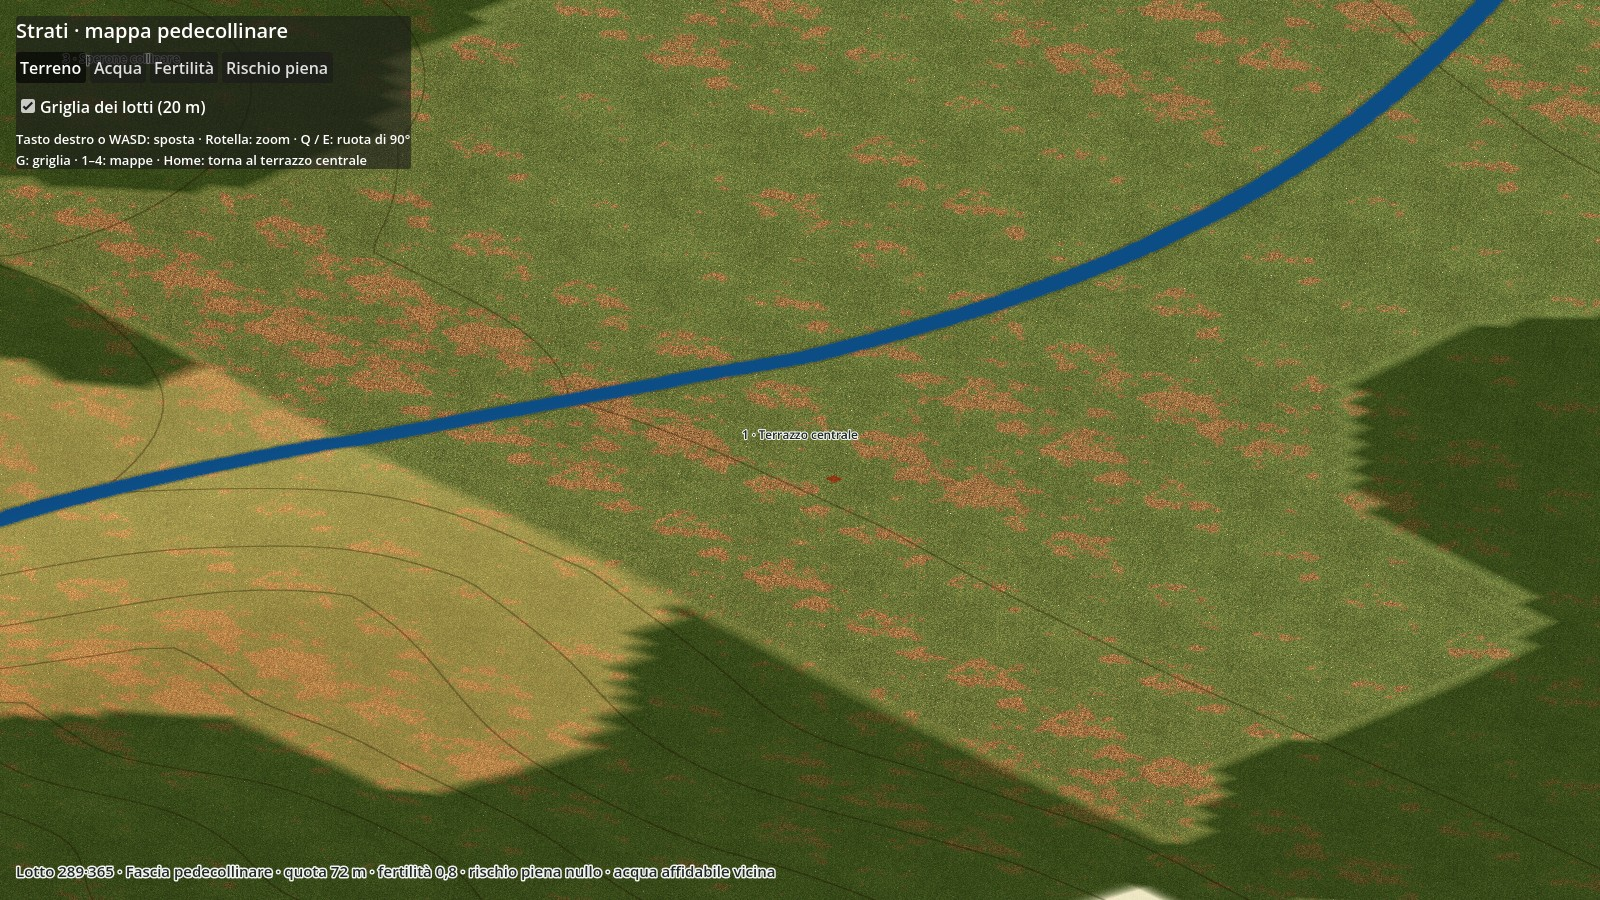
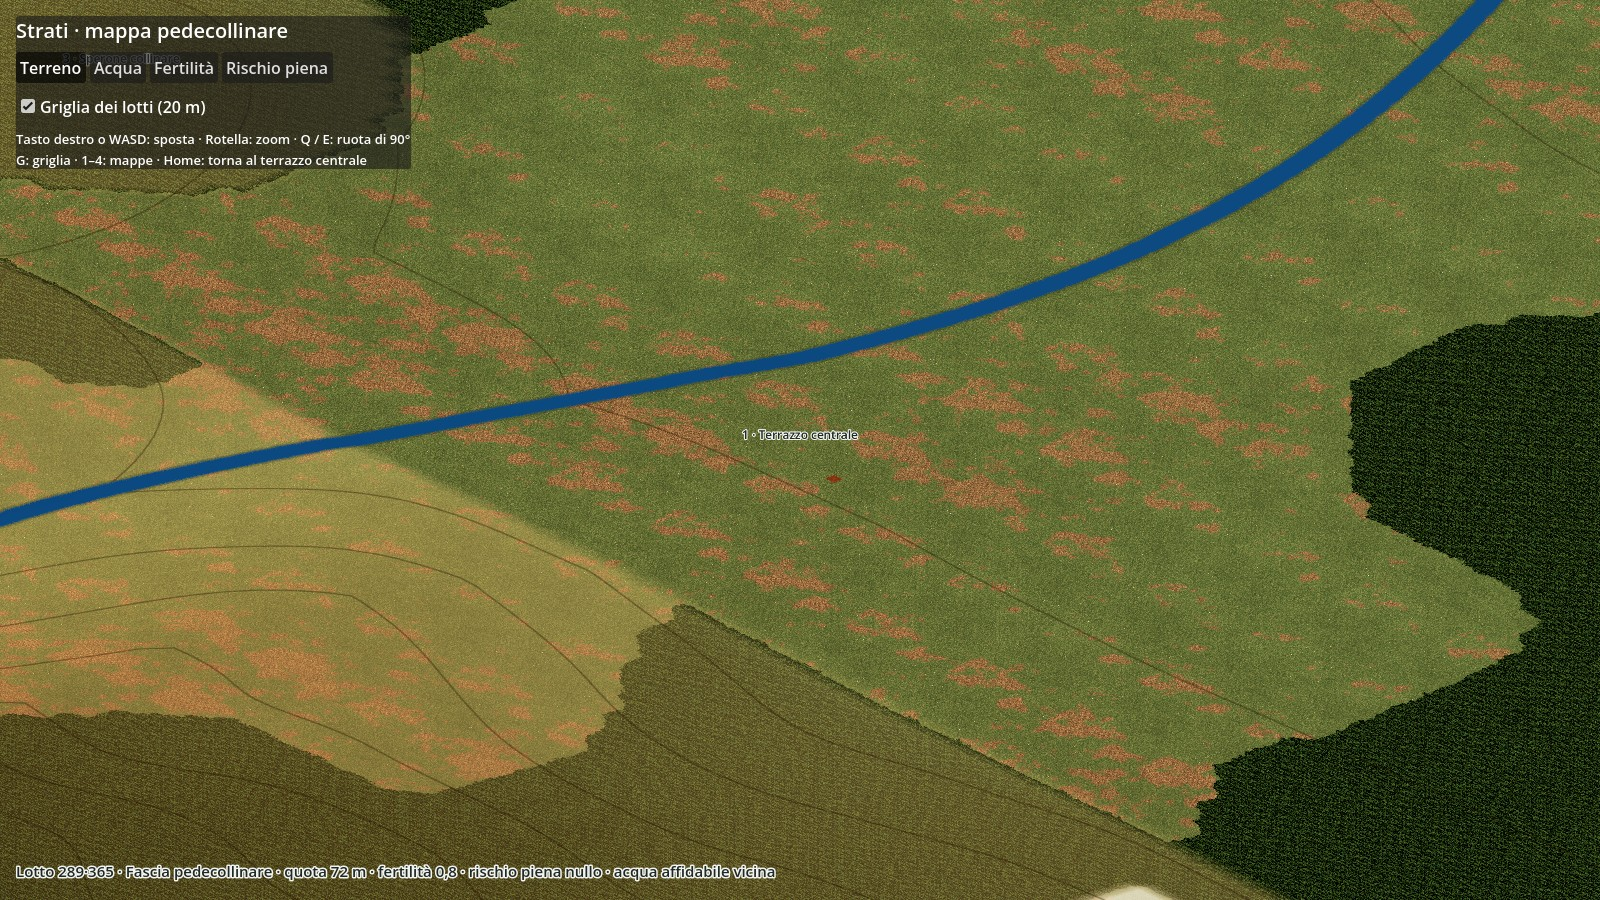
Terreno: boschi disegnati dallo shader con bordi irregolari e volta di chiome, terra sui pendii ripidi, foto del margine di bosco
Claude-Session: https://claude.ai/code/session_01N4eDGmuEoEcJQdC5u5KEMd

Changed region(s): [[0.0, 0.3422, 1.0, 1.0], [0.0, 0.0, 0.3125, 0.2178], [0.0, 0.28, 0.125, 0.4356]]

diff --git a/docs/asset.md b/docs/asset.md
@@ -37,6 +37,7 @@
 - **Cinque specie:** quercia (larga, verde oliva), carpino (tondo, verde freddo), pioppo (colonnare, verde chiaro), acero in autunno (giallo e arancio), arbusto di nocciolo (senza tronco, con fusti dal suolo). L'acero autunnale serve a provare la varietà di colore: le stagioni nel gioco non sono ancora decise.
 - **Prato:** texture fatta di migliaia di fili sottili invece che di macchie; una seconda lettura ruotata della stessa texture e tre maschere a scale diverse (circa 70 m, 230 m, 1,4 km) spezzano la ripetizione; chiazze di erba secca rossiccia, più frequenti dove la zona è già asciutta.
 - **Ombre (corrette dopo la segnalazione di Fede, 23/11/2026):** mancavano per due motivi. (1) Il sole stava alle spalle della camera: ogni ombra cadeva dietro l'oggetto che la proiettava e restava nascosta, e tutto era illuminato di fronte, quindi piatto. Ora il sole gira con la camera. **Decisione di Fede (23/11/2026): sole da sinistra, ombre lunghe verso destra sullo schermo**, a ogni rotazione (altezza 42°, 270° rispetto alla direzione dello sguardo: costanti `ALTEZZA_SOLE` e `AZIMUT_SOLE` in `principale.gd`). È una scelta di leggibilità: in un mondo realistico il sole non seguirebbe la camera. (2) La camera stava a 20 km dal punto guardato e le ombre del sole, che coprono lo spazio dalla camera alla distanza massima, sfumavano fino a sparire. Ora la distanza della camera segue lo zoom e la mappa d'ombra copre solo la fetta di terreno visibile: ombre nitide anche a 35 m. Sole un po' caldo, luce del cielo un po' fredda, così le ombre non vengono nere.
+- **Terreno (stessa sessione):** i boschi non stanno più nei colori dei vertici, che davano bordi a gradini da 40 m. Li disegna lo shader dalla copertura della mappa, con bordi irregolari e una volta di chiome fatta di due texture di foglie a strati, con macchie di luce e d'ombra grandi come alberi. Segnaposto finché non ci saranno alberi veri posati sulla mappa. Sui pendii ripidi l'erba si dirada e affiora la terra. Immagine del margine di un bosco: `docs/immagini/terreno-margine-bosco.jpg` (con `test/foto_bosco.gd`).
 - Immagini: `docs/immagini/prova-stile-v3-vicino.jpg` (vista di 35 m), `-medio.jpg` (70 m), `-territorio.jpg` (1500 m), `-foglie.jpg` (le quattro texture delle foglie).
 
 ## Regole tecniche
@@ -76,5 +77,5 @@ Gli alberi sono della terza versione; le facce delle chiome contano fronte e ret
 - **Da verificare nella terza versione:** ombre e prestazioni sui PC di Fede; carte viste di taglio che a volte si vedono come strisce ai bordi delle chiome; la casa lunga e le capanne viste a 35 m (le texture di paglia e argilla sono nate per viste più lontane).
 - **Alberi in quantità:** per i boschi servirà una versione più leggera (meno carte) da usare da lontano, e la posa di molti alberi con istanze multiple (`MultiMeshInstance3D`).
 - **Villaggio:** completare il lotto nello stile scelto (case lunghe piccola e grande, palizzata e varco, luogo sacro, canneto, rocce, arbusti, fosse-silos, focolare, recinto per animali) e varianti per evitare ripetizioni.
-- **Terreno:** texture distinte per campo coltivato, bosco, palude, roccia; alberi veri al posto delle macchie scure dei boschi, che da vicino mostrano ancora i gradini della griglia da 40 m.
+- **Terreno:** texture distinte per campo coltivato, bosco, palude, roccia; alberi veri al posto della volta di chiome dipinta sul terreno, che da circa 150 m mostra ancora una trama ripetuta.
 - **Abitato protourbano:** terrapieno e fossato modulari, villaggio arginato ispirato alle terramare dell'età del Bronzo, tipiche della pianura emiliana.

diff --git a/docs/diario.md b/docs/diario.md
@@ -13,6 +13,7 @@ Voci più recenti in cima.
 - Primo lotto di asset in stile "plastico architettonico" (11 modelli): **scartato da Fede**, che vuole uno stile verosimile anche nei colori e alberi meno poligonali. Rimossi dal repository (restano nella cronologia di Git).
 - **Prova di stile verosimile** (`gioco/asset/prove_stile/`, 5 modelli: casa lunga, capanna tonda, granaio, due querce): texture procedurali generate da script (paglia, argilla, legno, corteccia, pietra, erba, foglie), tetti spessi e irregolari, pali a vista, querce con rami e chioma di foglie. Il terreno del gioco ora usa una texture d'erba tinta dalla zona. Seconda versione ispirata ad Age of Empires IV: texture più "dipinte", tetti più alti e sporgenti, occlusione ambientale cotta nei vertici, alberi più pieni in tre toni, prato più vivo. Guida in `docs/asset.md`, immagini in `docs/immagini/prova-stile-verosimile-*.png`.
 - **Terza versione di alberi e prato**, dopo il parere di Fede sulla seconda e le sue reference di AoE IV: zoom fino a 40 m; foglie singole e grandi, una texture per specie; chiome a lobi con normali sferiche e ombra interna calcolata; cinque specie (quercia, carpino, pioppo, acero autunnale, arbusto); prato a fili sottili con chiazze di erba secca e meno ripetizione; piani di taglio della camera stretti per ombre nitide da vicino. Dettagli in `docs/asset.md`, immagini in `docs/immagini/prova-stile-v3-*.jpg`. Ombre: Fede ha notato che mancavano del tutto. Non era un limite dell'ambiente di Claude ma due errori del progetto: il sole stava alle spalle della camera (ombre nascoste dietro gli oggetti) e la camera era a 20 km (ombre sfumate fino a sparire). Ora il sole gira con la camera (da sinistra, ombre lunghe verso destra, come chiesto da Fede) e la distanza della camera segue lo zoom: le ombre si vedono e sono nitide da vicino.
+- **Terreno migliorato:** boschi con bordi irregolari (non più a gradini da 40 m) e una volta di chiome dipinta, in attesa degli alberi veri; terra che affiora sui pendii ripidi.
 - Strumenti nell'ambiente di Claude: Godot 4.7.2 senza grafica e Blender 5.3 come modulo Python; catena Blender → glTF → Godot provata con una casa lunga neolitica.
 
 **Decisioni (Fede)**
